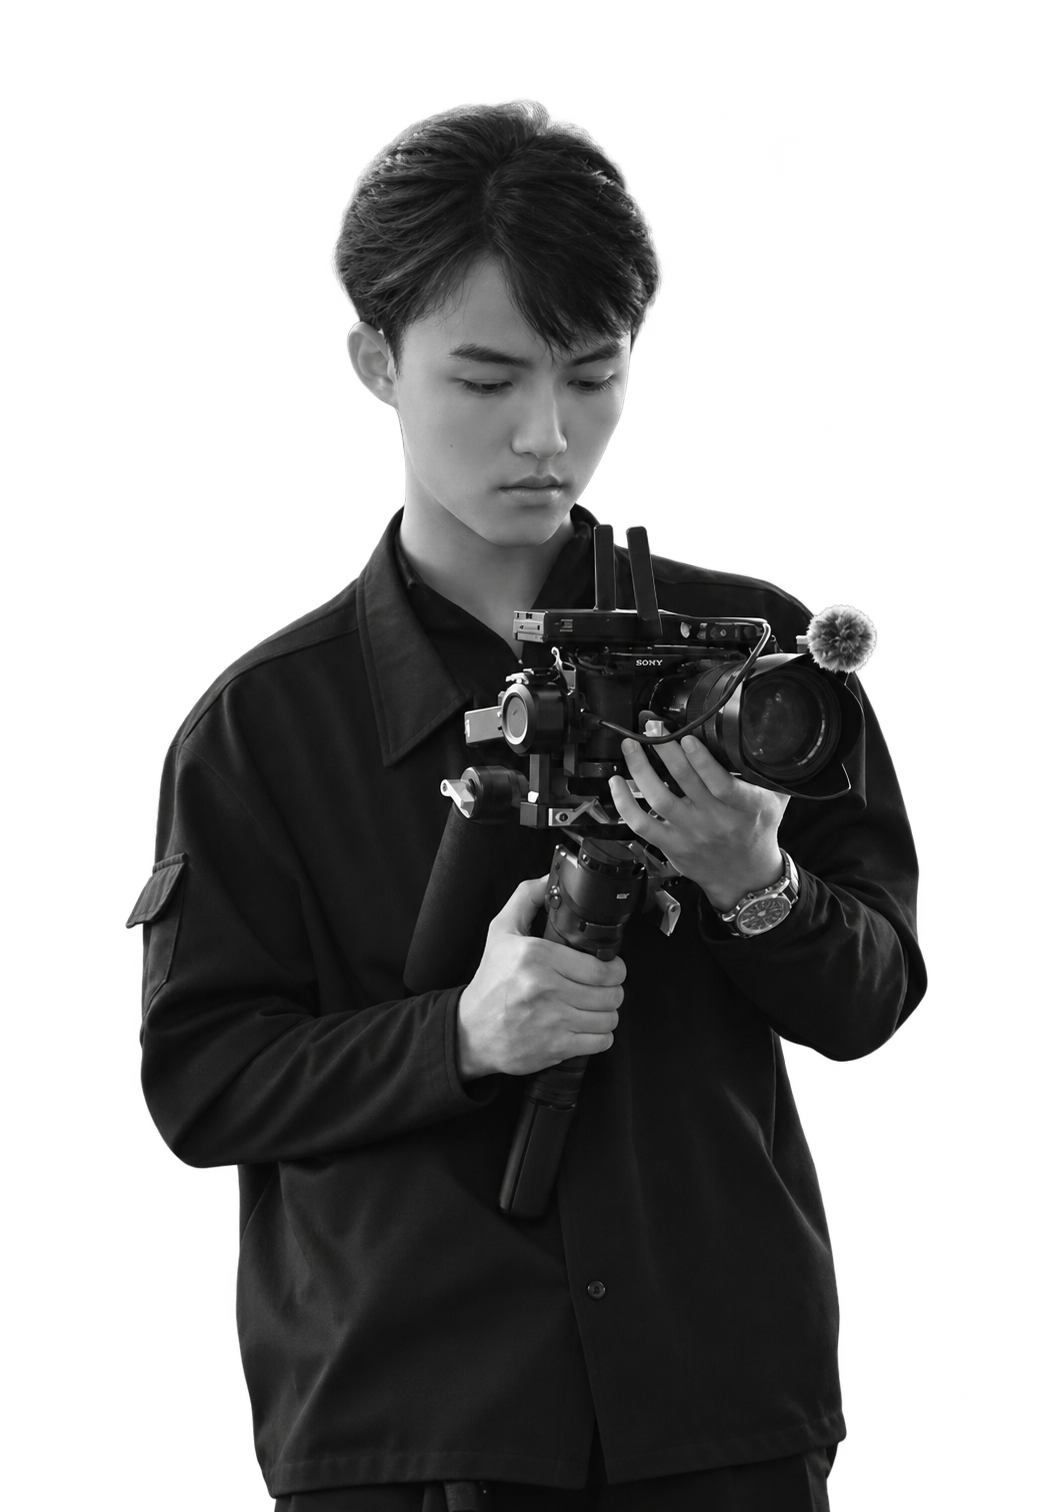
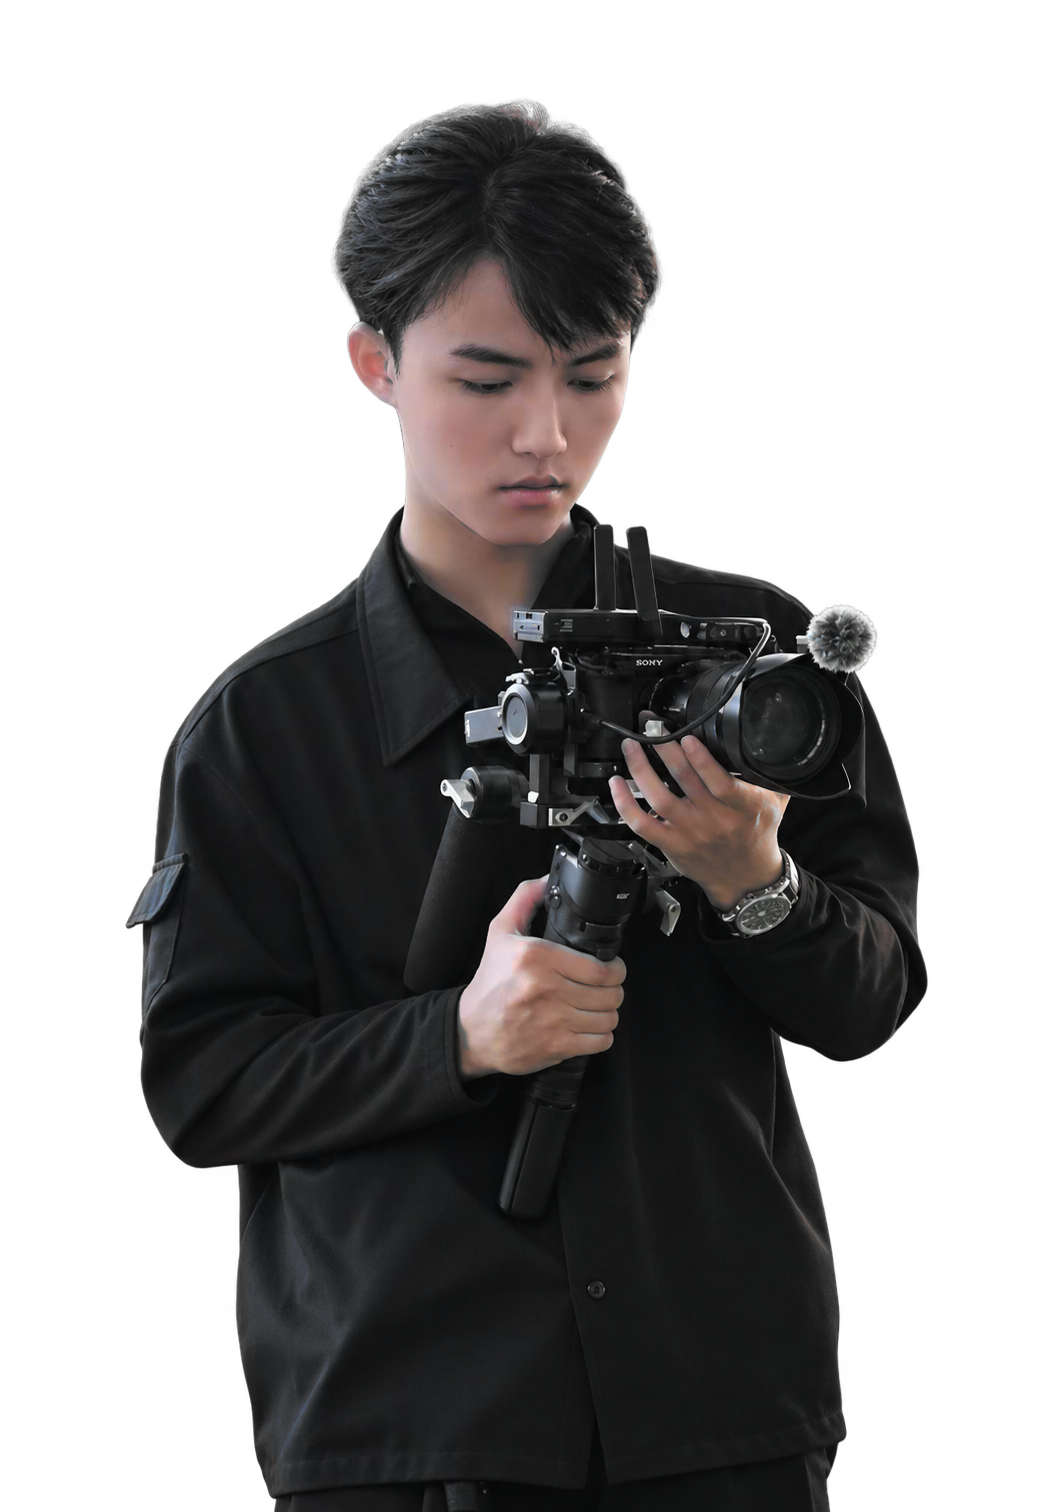
update lan 2

diff --git a/src/data/portfolio.js b/src/data/portfolio.js
@@ -3,18 +3,17 @@ import media from "./media.json";
 export const profile = {
   name: "Huỳnh Anh Quyền",
   role: "Cameraman & Editor",
-  subtitle: "Thực tập sinh Media (Content / Video)",
-  targetCompany: "Công ty TNHH Truyền Thông Giải Trí An Nhiên Media",
+  subtitle: "Cameraman, Editor & Media Content",
   dob: "18/09/2006",
   email: "anhquyen18926@gmail.com",
   phone: "0363583613",
   phoneDisplay: "0363 583 613",
   address: "Lê Văn Khương, Phường Tân Thới Hiệp, TP. HCM",
-  avatar: "/images/avatar-new-cutout.png",
+  avatar: "/images/avatar-new-color-cutout.png",
   source:
     "https://drive.google.com/drive/folders/1L1bEv8ruLL4iv1RDIBe6BIja309Qn32L",
   about:
-    "Tôi là Huỳnh Anh Quyền (18/09/2006) — hiện theo học chuyên ngành Truyền thông và Tổ chức Sự kiện tại Cao đẳng FPT Polytechnic TP. HCM. Tôi chuyên thực hiện quay dựng video, sáng tạo nội dung (Content) và ghi hình sự kiện với tinh thần học hỏi, thích nghi nhanh và chú trọng vào chất lượng từng khung hình.",
+    "Tôi là Huỳnh Anh Quyền (18/09/2006) — tốt nghiệp chuyên ngành Truyền thông và Tổ chức Sự kiện tại Cao đẳng FPT Polytechnic TP. HCM. Tôi chuyên thực hiện quay dựng video, sáng tạo nội dung (Content) và ghi hình sự kiện với tinh thần học hỏi, thích nghi nhanh và chú trọng vào chất lượng từng khung hình.",
 };
 
 export const education = [
@@ -22,7 +21,6 @@ export const education = [
     school: "Cao Đẳng FPT Polytechnic TP. HCM",
     period: "2024 – 2026",
     major: "Chuyên ngành: Truyền Thông và Tổ Chức Sự Kiện",
-    status: "Tình trạng: Đang học · Xếp loại: Khá",
   },
 ];
 
@@ -53,44 +51,7 @@ export const tools = [
   "Instagram",
 ];
 
-export const careerGoals = [
-  {
-    num: "01",
-    period: "2025 – 2026",
-    title: "THỰC TẬP SINH MEDIA (CONTENT / VIDEO)",
-    description:
-      "Hoàn thành kỳ thực tập quay dựng, tạo Content và trau dồi kiến thức thực tế tại Công ty TNHH Truyền Thông Giải Trí An Nhiên Media.",
-  },
-  {
-    num: "02",
-    period: "2026 – 2027",
-    title: "BIÊN TẬP & DÀN DỰNG VIDEO CHUYÊN NGHIỆP",
-    description:
-      "Phát triển lên vị trí biên tập, dàn dựng video chuyên nghiệp, làm chủ quy trình sản xuất hình ảnh và hậu kỳ.",
-  },
-  {
-    num: "03",
-    period: "2027 – 2028",
-    title: "LEADER NHÓM CONTENT SÁNG TẠO",
-    description:
-      "Trở thành Leader nhóm Content sáng tạo nội dung, định hướng ý tưởng và đóng góp giá trị truyền thông cho công ty.",
-  },
-  {
-    num: "04",
-    period: "2028 – 2030",
-    title: "XÂY DỰNG CÔNG TY QUẢNG CÁO RIÊNG",
-    description:
-      "Thành lập một công ty riêng cho mình về mảng truyền thông và quảng cáo chuyên nghiệp.",
-  },
-];
-
 export const experiences = [
-  {
-    date: "2025 – 2026 · MỤC TIÊU",
-    title: "Thực Tập Sinh Media (Content / Video)",
-    place: "Công ty TNHH Truyền Thông Giải Trí An Nhiên Media",
-    text: "Thực tập quay dựng, sáng tạo nội dung (Content) và trau dồi kiến thức thực tiễn trong môi trường truyền thông – giải trí chuyên nghiệp.",
-  },
   {
     date: "KINH NGHIỆM LÀM VIỆC",
     title: "Social Media — Quay & Dựng Video",
@@ -100,27 +61,27 @@ export const experiences = [
   {
     date: "30/10/2025 · DỰ ÁN",
     title: "Thành Viên Media — Họp Báo Giả Định TH TRUE MILK",
-    place: "Dự án Học tập · FPT Polytechnic TP. HCM",
+    place: "Sự kiện Họp báo · FPT Polytechnic TP. HCM",
     text: "Đảm nhận chính quay chụp trong sự kiện họp báo đang diễn ra; ngoài ra còn đảm nhận công tác hậu cần thiết kế chỗ ngồi và trang trí khi sự kiện chuẩn bị diễn ra. Áp dụng hiệu quả kỹ năng quay chụp, phối hợp nhóm và hỗ trợ hậu cần thực tế.",
   },
   {
     date: "20/08/2025 · DỰ ÁN",
     title: "Thành Viên Media — Dự Án Hoa Lửa",
-    place: "Dự án Học tập · Giảng viên đánh giá 8.0",
-    text: "Đảm nhận chính trong quay dựng và tạo nội dung content cho dự án, đồng thời phụ trách truyền thông trên các nền tảng TikTok, Facebook, Instagram. Hiểu rõ cách vận hành thực tế của một sự kiện và đạt điểm đánh giá 8.0 từ giảng viên.",
+    place: "Sự kiện Hoa Lửa · FPT Polytechnic TP. HCM",
+    text: "Đảm nhận chính trong quay dựng và tạo nội dung content cho dự án, đồng thời phụ trách truyền thông trên các nền tảng TikTok, Facebook, Instagram. Nắm vững quy trình vận hành và sản xuất truyền thông thực tế cho sự kiện.",
   },
 ];
 
 export const highlights = [
   {
     index: "01",
-    title: "Học vấn: Cao Đẳng FPT Polytechnic TP. HCM",
-    sub: "Truyền thông & Tổ chức Sự kiện (2024 – 2026) · Xếp loại Khá",
+    title: "Cao Đẳng FPT Polytechnic TP. HCM",
+    sub: "Chuyên ngành Truyền thông & Tổ chức Sự kiện (2024 – 2026)",
   },
   {
     index: "02",
-    title: "Đánh giá 8.0 — Dự án Sự kiện Hoa Lửa",
-    sub: "Quay dựng chính, sáng tạo Content & Truyền thông đa nền tảng",
+    title: "Sản xuất Media & Truyền thông Đa nền tảng",
+    sub: "Quay dựng chính, sáng tạo Content cho TikTok, Facebook, Instagram",
   },
   {
     index: "03",
@@ -181,9 +142,11 @@ export const projects = media.map((item) => ({
   category: labels[item.group],
   role: profile.role,
   description:
-    item.group === "backstage"
-      ? "Hình ảnh trong quá trình làm việc của Huỳnh Anh Quyền."
-      : "Hình ảnh từ bộ sưu tập " + labels[item.group] + ".",
+    item.type === "video"
+      ? "Sản phẩm video quay dựng và sáng tạo nội dung bởi Huỳnh Anh Quyền."
+      : item.group === "backstage"
+        ? "Hình ảnh trong quá trình làm việc của Huỳnh Anh Quyền."
+        : "Hình ảnh từ bộ sưu tập " + labels[item.group] + ".",
   gallery: [
     {
       image: item.image,
@@ -197,7 +160,8 @@ export const projects = media.map((item) => ({
 
 export const backstage = projects.filter((p) => p.group === "backstage");
 export const featuredProjects = [
-  ...projects.filter((p) => p.group !== "backstage").slice(0, 4),
+  ...projects.filter((p) => p.type === "video").slice(0, 1),
+  ...projects.filter((p) => p.group === "final").slice(0, 3),
   ...backstage.slice(0, 2),
 ];
 export const categories = [

diff --git a/src/components/Portfolio.jsx b/src/components/Portfolio.jsx
@@ -38,7 +38,6 @@ import {
   hardSkills,
   softSkills,
   tools,
-  careerGoals,
   experiences,
   highlights,
   projects,
@@ -631,19 +630,9 @@ export default function Portfolio() {
     { scrollYProgress } = useScroll();
   const animate = enabled && !reduced;
   const hero = useRef(null);
-  const aboutRef = useRef(null);
   const { scrollYProgress: heroProgress } = useScroll({
     target: hero,
     offset: ["start start", "end start"],
-  });
-  const { scrollYProgress: rawAboutProgress } = useScroll({
-    target: aboutRef,
-    offset: ["start 75%", "end 75%"],
-  });
-  const aboutProgress = useSpring(rawAboutProgress, {
-    stiffness: 45,
-    damping: 24,
-    restDelta: 0.001,
   });
   const titleY = useTransform(heroProgress, [0, 1], [0, 180]);
   const portraitY = useTransform(heroProgress, [0, 1], [0, 85]);
@@ -841,9 +830,8 @@ export default function Portfolio() {
                 EDITOR · MEDIA
               </p>
               <p className="hero-description">
-                Sinh viên Truyền thông & Tổ chức Sự kiện tại FPT Polytechnic TP.
-                HCM. Chuyên quay dựng video, sáng tạo nội dung và ghi hình sự
-                kiện.
+                Chuyên quay dựng video, sáng tạo nội dung (Content) và sản xuất
+                hình ảnh truyền thông – sự kiện tại TP. Hồ Chí Minh.
               </p>
               <MagneticLink className="primary-link" href="#portfolio">
                 Khám phá tác phẩm <ArrowDown size={18} />
@@ -874,16 +862,6 @@ export default function Portfolio() {
               <div className="hero-stats">
                 <div>
                   <span className="display">
-                    8.0<span className="accent"> ★</span>
-                  </span>
-                  <p>
-                    DỰ ÁN SỰ KIỆN HOA LỬA
-                    <br />
-                    FPT POLYTECHNIC TP. HCM
-                  </p>
-                </div>
-                <div>
-                  <span className="display">
                     REC<span className="accent"> ●</span>
                   </span>
                   <p>
@@ -909,7 +887,7 @@ export default function Portfolio() {
                 CUỘN ĐỂ KHÁM PHÁ <ArrowDown size={14} />
               </span>
               <span className="edition">
-                FPT POLYTECHNIC · SELECTED WORK 2024–2026
+                HUỲNH ANH QUYỀN · SELECTED WORK
               </span>
             </div>
           </section>
@@ -1038,7 +1016,7 @@ export default function Portfolio() {
             </div>
           </section>
 
-          <section id="about" className="section-wrap about" ref={aboutRef}>
+          <section id="about" className="section-wrap about">
             <div className="about-lead">
               <Reveal variant="slide-left">
                 <span className="eyebrow">03 / VỀ TÔI</span>
@@ -1064,20 +1042,9 @@ export default function Portfolio() {
                   <div className="education-row" key={edu.school}>
                     <strong>{edu.school}</strong>
                     <span>{edu.period}</span>
-                    <p>
-                      {edu.major}
-                      <br />
-                      {edu.status}
-                    </p>
+                    <p>{edu.major}</p>
                   </div>
                 ))}
-                <div className="education-row">
-                  <strong>Định hướng Thực tập & Phát triển</strong>
-                  <span>2025 – 2026</span>
-                  <p>
-                    {profile.subtitle} — {profile.targetCompany}
-                  </p>
-                </div>
 
                 <p className="eyebrow accent skills-heading">
                   KỸ NĂNG CHUYÊN NGÀNH
@@ -1129,36 +1096,6 @@ export default function Portfolio() {
                   ))}
                 </div>
               </Reveal>
-
-              <div className="process-panel">
-                <Reveal variant="heading">
-                  <h3 className="panel-heading">MỤC TIÊU NGHỀ NGHIỆP</h3>
-                </Reveal>
-                <div className="process-list">
-                  <div className="process-track">
-                    <motion.div
-                      style={{ scaleY: animate ? aboutProgress : 1 }}
-                    />
-                  </div>
-                  {careerGoals.map((goal, i) => (
-                    <Reveal
-                      className="process-row"
-                      key={goal.num}
-                      variant="scale-up"
-                      delay={i * 0.12}
-                    >
-                      <span className="process-num display">{goal.num}</span>
-                      <span className="process-node" />
-                      <div>
-                        <h4>
-                          {goal.period} · {goal.title}
-                        </h4>
-                        <p>{goal.description}</p>
-                      </div>
-                    </Reveal>
-                  ))}
-                </div>
-              </div>
 
               <Reveal
                 className="quote-panel"

diff --git a/src/app/quyen.css b/src/app/quyen.css
@@ -927,7 +927,13 @@
   margin-top: 7px;
 }
 
-/* About / Học vấn & Năng lực / Mục tiêu nghề nghiệp */
+/* About / Học vấn & Năng lực */
+.studio-grid {
+  grid-template-columns: 1.55fr 0.9fr !important;
+}
+.education-panel {
+  padding-right: clamp(28px, 4vw, 56px);
+}
 .about-lead > p {
   font-size: clamp(15px, 1.15vw, 17.5px);
   line-height: 1.75;
@@ -968,38 +974,6 @@
   font-weight: 500;
   line-height: 1.45;
   color: #e2deda;
-}
-
-/* Process / Career Goals timeline */
-.process-row {
-  grid-template-columns: 32px 22px 1fr !important;
-  gap: 16px !important;
-  padding-bottom: 30px;
-}
-.process-track {
-  left: 55.5px !important;
-  top: 14px;
-  bottom: 40px;
-}
-.process-num {
-  font-size: clamp(24px, 1.8vw, 28px);
-  line-height: 1.2;
-}
-.process-node {
-  width: 16px;
-  height: 16px;
-  margin-top: 7px;
-}
-.process-row h4 {
-  font-size: clamp(15.5px, 1.18vw, 18px);
-  font-weight: 700;
-  line-height: 1.45;
-  margin-bottom: 7px;
-}
-.process-row p {
-  font-size: clamp(14px, 1.05vw, 15.5px);
-  line-height: 1.7;
-  max-width: 420px;
 }
 
 /* Quote panel */
@@ -1115,6 +1089,12 @@
 }
 
 @media (max-width: 800px) {
+  .studio-grid {
+    grid-template-columns: 1fr !important;
+  }
+  .education-panel {
+    padding-right: 0;
+  }
   .experience-row > button {
     grid-template-columns: 1fr 24px;
   }
